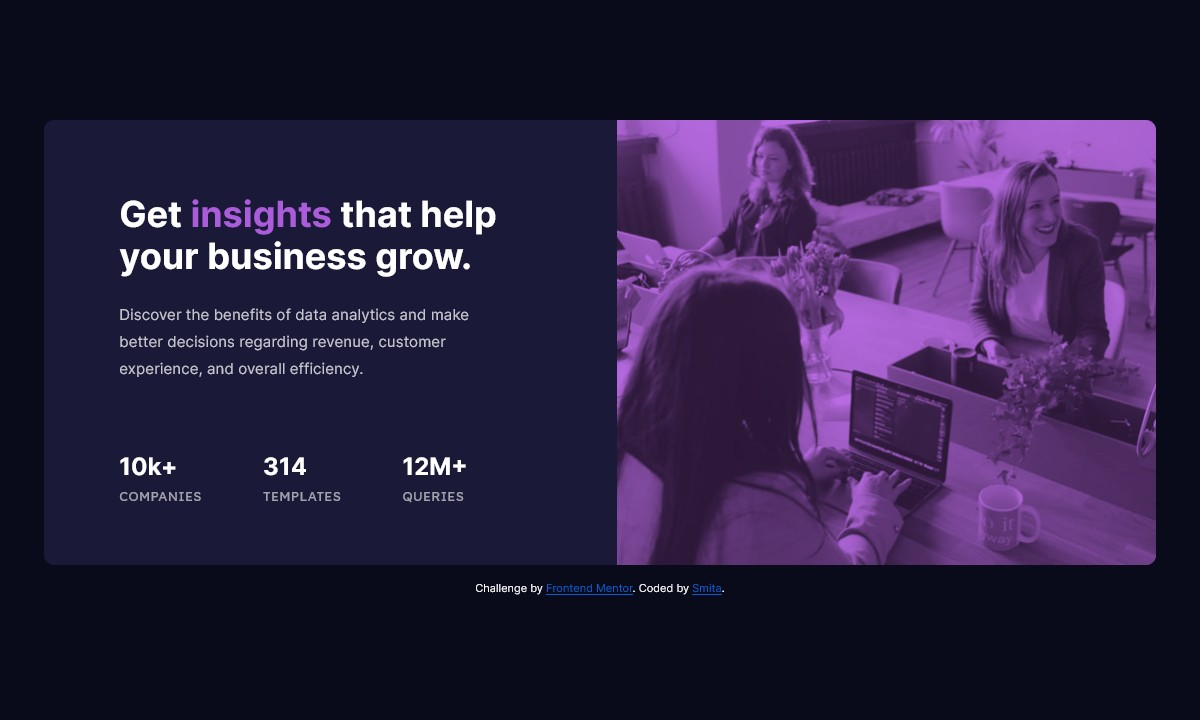
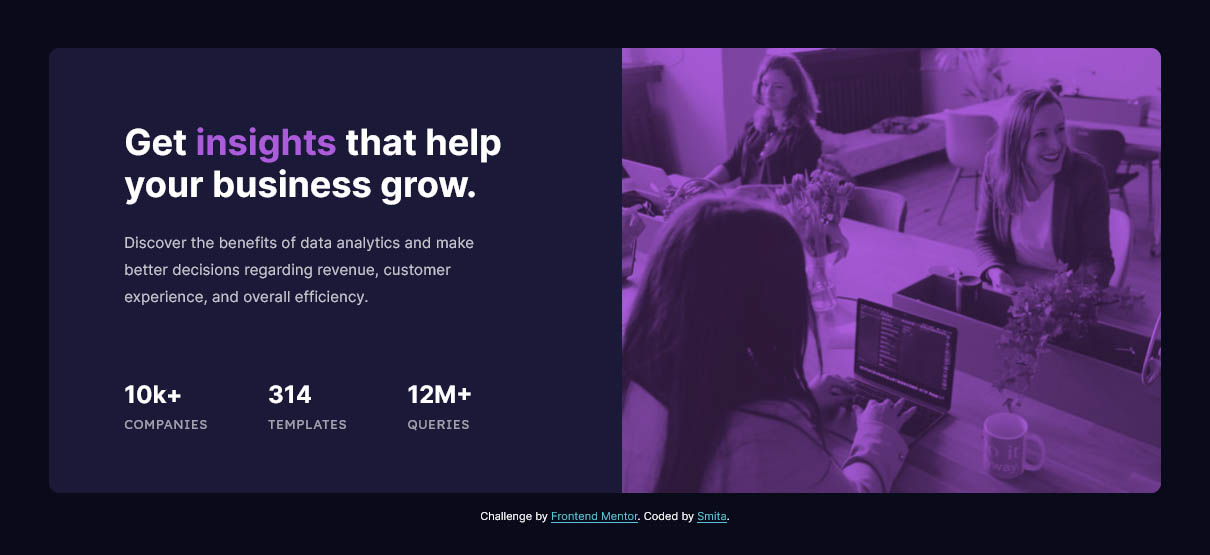
updated files

diff --git a/styles.css b/styles.css
@@ -28,7 +28,7 @@
 }
 
 .attribution__link {
-    color: hsl(216, 89%, 44%);
+    color: hsl(189, 62%, 60%);
 }
 
 .card__heading {
@@ -59,7 +59,7 @@
     color: var(--title--white);
     text-transform: uppercase;
     font-size: .8rem;
-    letter-spacing: .5px;
+    letter-spacing: .6px;
 }
 
 
